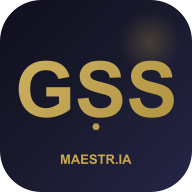
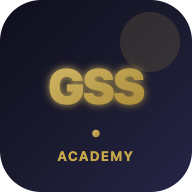
fix(eleva): ícone do app diz 'GSS ACADEMY' (não mais MAESTR.IA)
- icon.svg: subtítulo MAESTR.IA -> ACADEMY; regenerados icon-512/192 + apple-touch (puppeteer).
- og:image/twitter:image apontam pra icon-512-academy.png (nome novo força o WhatsApp a
  rebuscar o preview, que fica cacheado por URL de imagem).

Changed region(s): [[0.0938, 0.3125, 0.9062, 0.7188], [0.2812, 0.7812, 0.6875, 0.875]]

diff --git a/index.html b/index.html
@@ -16,11 +16,11 @@
     <meta property="og:title" content="Eleva" />
     <meta property="og:description" content="Cada produto vira uma pílula de 30s: quem vende aprende o benefício, quebra a objeção da cliente e manda a resposta pronta no WhatsApp (com o vídeo, quando o produto tem)." />
     <meta property="og:url" content="https://eleva-five.vercel.app/eleva" />
-    <meta property="og:image" content="https://eleva-five.vercel.app/icon-512.png" />
+    <meta property="og:image" content="https://eleva-five.vercel.app/icon-512-academy.png" />
     <meta name="twitter:card" content="summary" />
     <meta name="twitter:title" content="Eleva" />
     <meta name="twitter:description" content="Produto que vende na ponta — pílulas de 30s pra sua força de venda." />
-    <meta name="twitter:image" content="https://eleva-five.vercel.app/icon-512.png" />
+    <meta name="twitter:image" content="https://eleva-five.vercel.app/icon-512-academy.png" />
     <link rel="manifest" href="/manifest.json" />
     <link rel="preconnect" href="https://fonts.googleapis.com" />
     <link rel="preconnect" href="https://fonts.gstatic.com" crossorigin />

diff --git a/public/sw.js b/public/sw.js
@@ -1,5 +1,5 @@
 // Service Worker — network first, sem cache de JS/CSS (evita versões travadas)
-const CACHE_NAME = 'gss-academy-v43';
+const CACHE_NAME = 'gss-academy-v44';
 const STATIC_CACHE = ['/', '/manifest.json'];
 
 self.addEventListener('install', (event) => {
